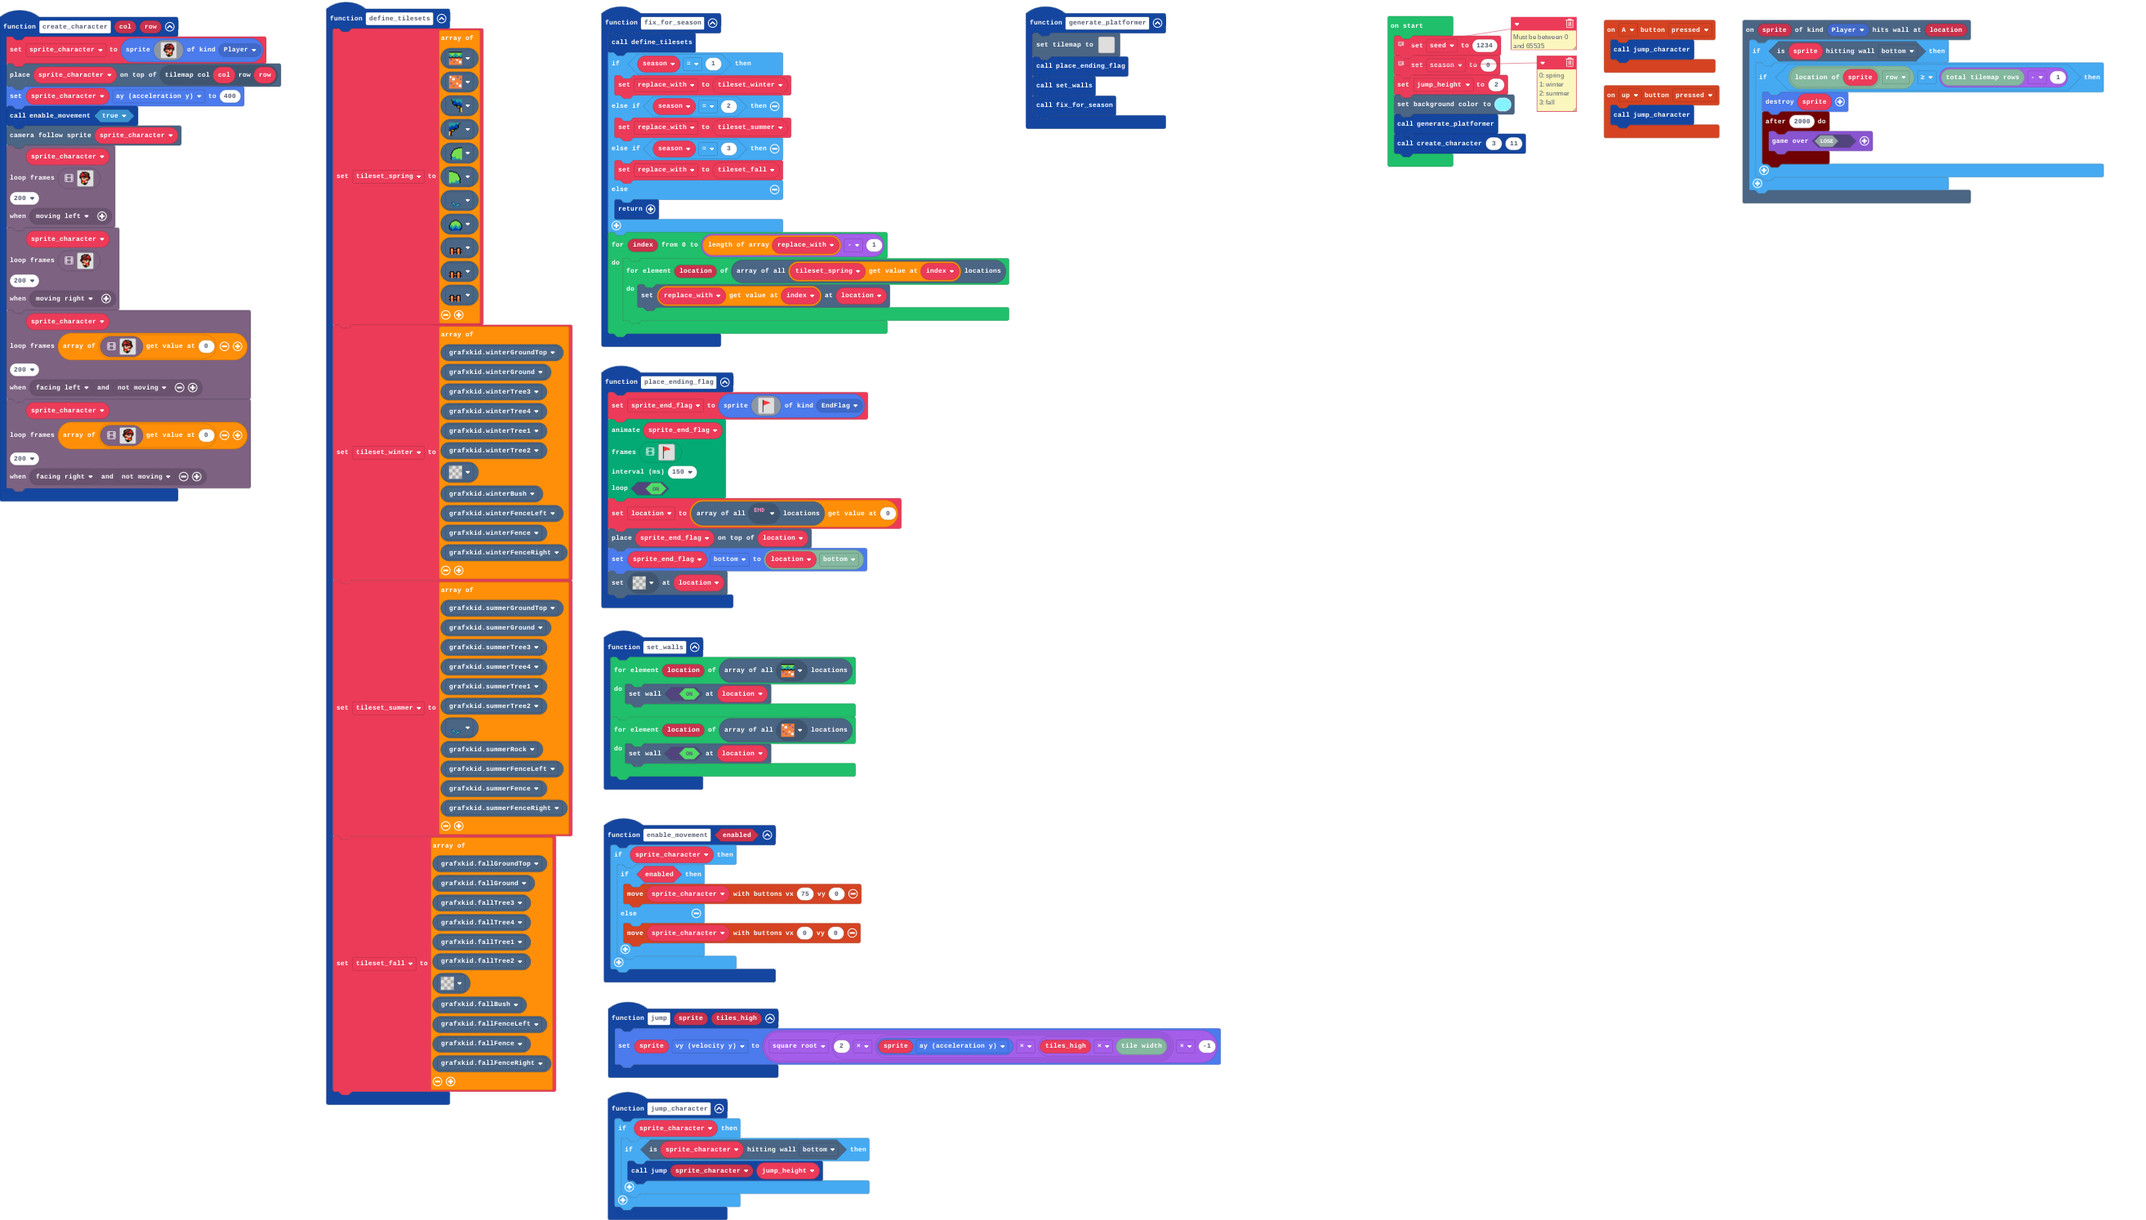
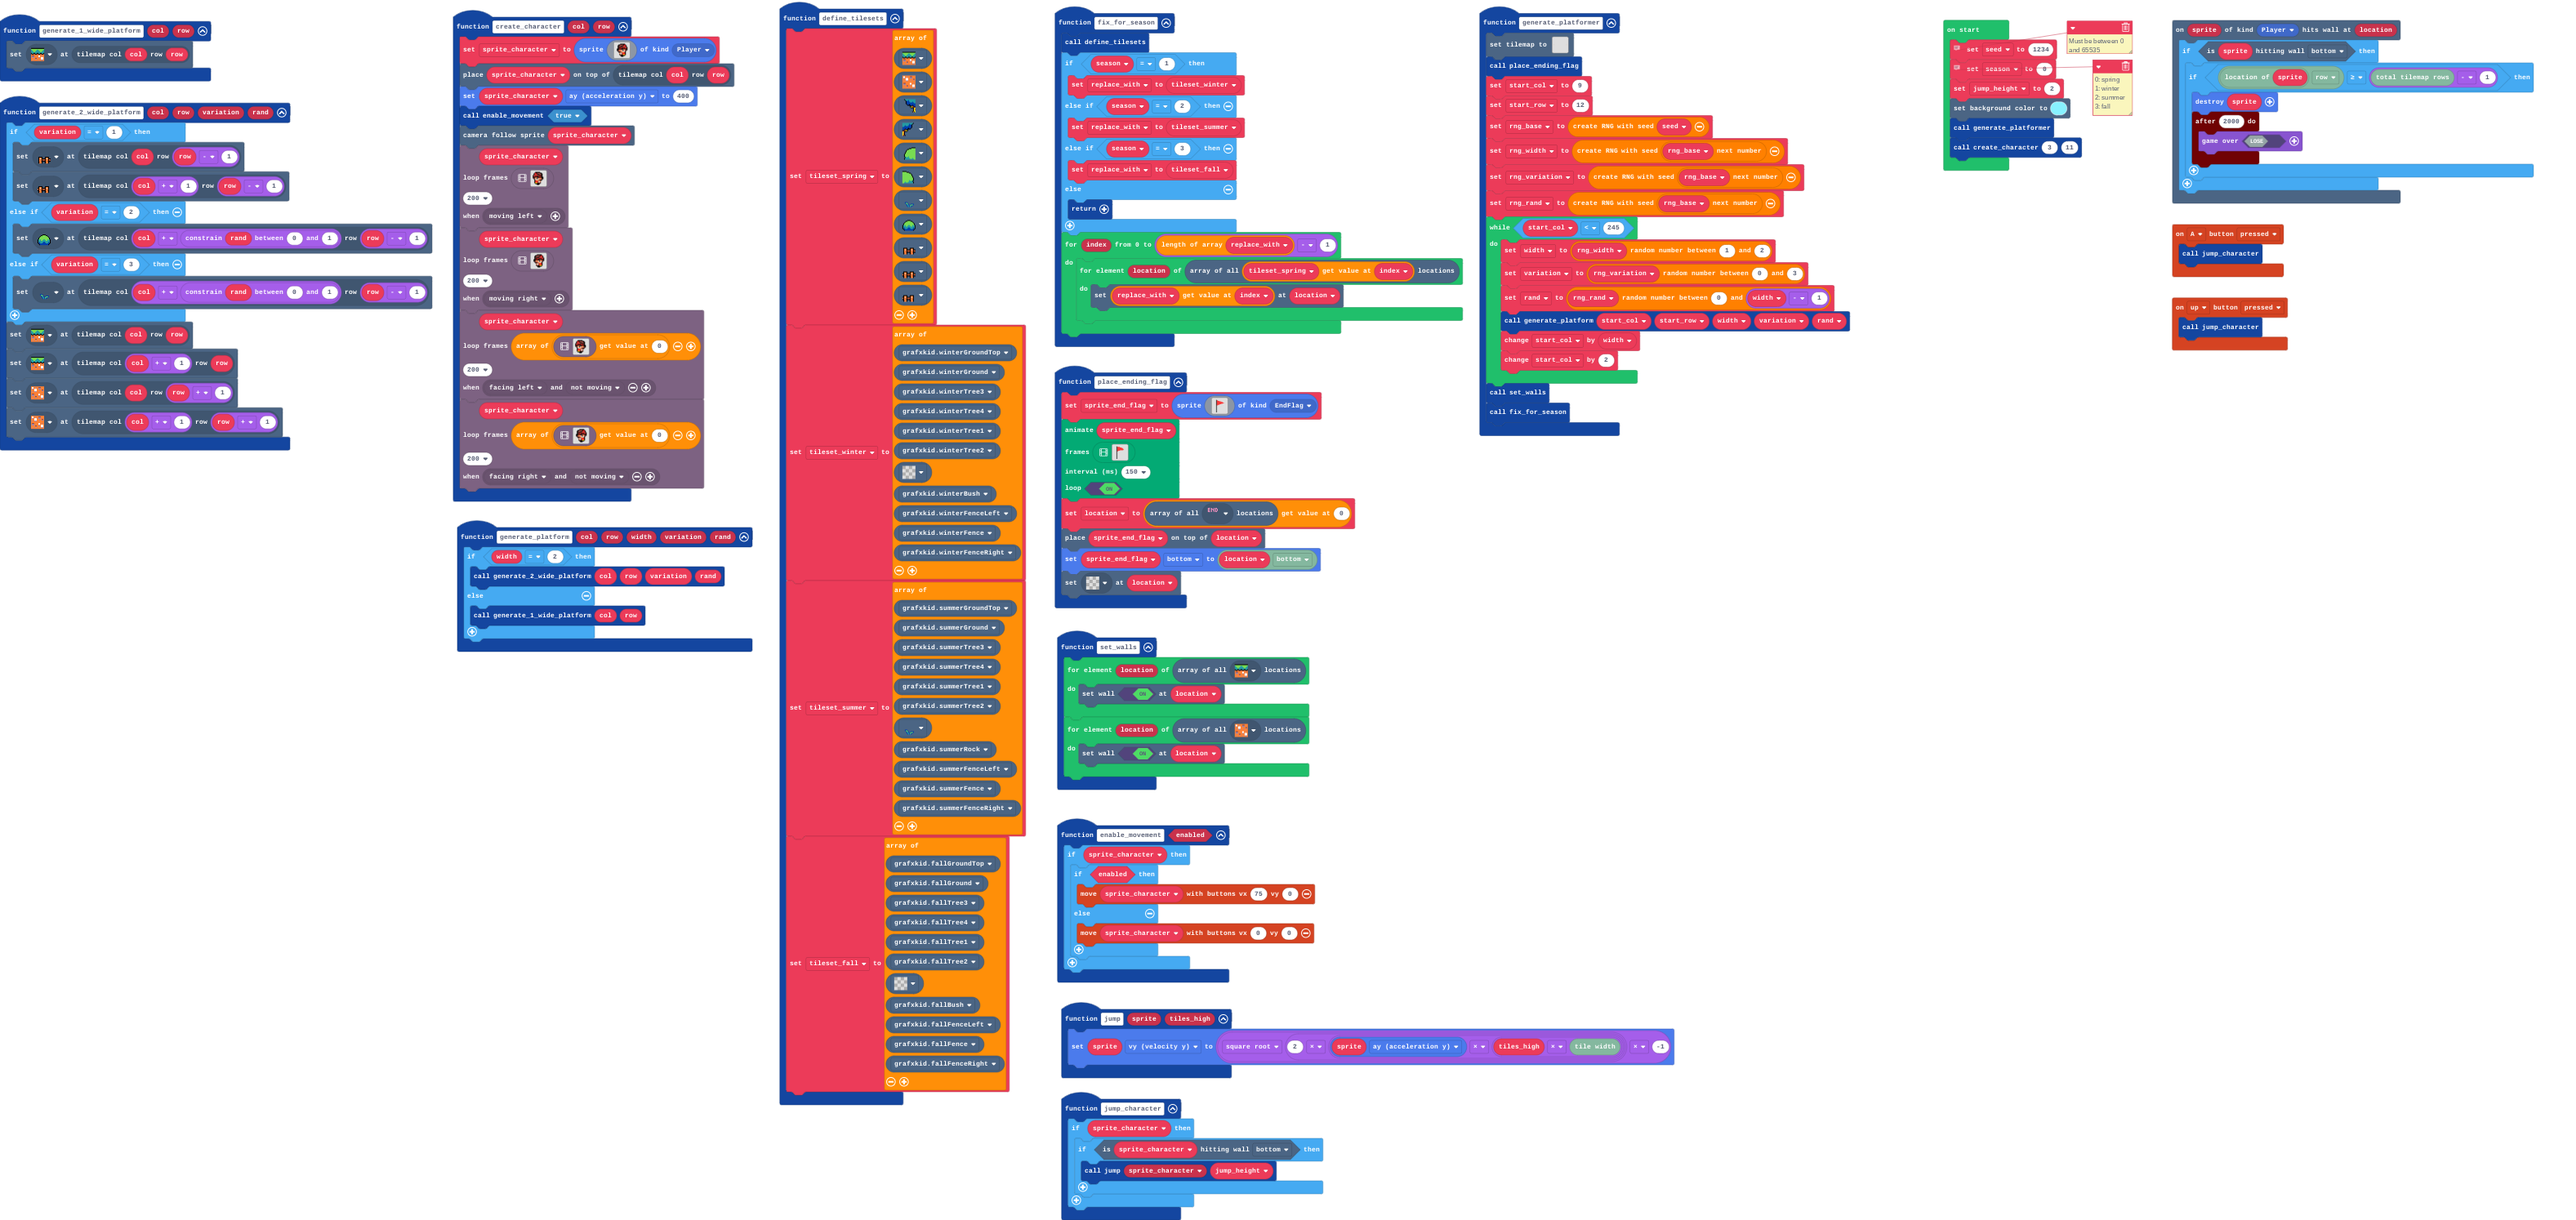
Can generate 1 or 2 width platforms

diff --git a/main.ts b/main.ts
@@ -72,6 +72,23 @@ function fix_for_season () {
         }
     }
 }
+function generate_1_wide_platform (col: number, row: number) {
+    tiles.setTileAt(tiles.getTileLocation(col, row), grafxkid.springGroundTop)
+}
+function generate_2_wide_platform (col: number, row: number, variation: number, rand: number) {
+    if (variation == 1) {
+        tiles.setTileAt(tiles.getTileLocation(col, row - 1), grafxkid.fenceLeft)
+        tiles.setTileAt(tiles.getTileLocation(col + 1, row - 1), grafxkid.fenceRight)
+    } else if (variation == 2) {
+        tiles.setTileAt(tiles.getTileLocation(col + Math.constrain(rand, 0, 1), row - 1), grafxkid.springBush)
+    } else if (variation == 3) {
+        tiles.setTileAt(tiles.getTileLocation(col + Math.constrain(rand, 0, 1), row - 1), grafxkid.springGrass)
+    }
+    tiles.setTileAt(tiles.getTileLocation(col, row), grafxkid.springGroundTop)
+    tiles.setTileAt(tiles.getTileLocation(col + 1, row), grafxkid.springGroundTop)
+    tiles.setTileAt(tiles.getTileLocation(col, row + 1), grafxkid.springGround)
+    tiles.setTileAt(tiles.getTileLocation(col + 1, row + 1), grafxkid.springGround)
+}
 function enable_movement (enabled: boolean) {
     if (sprite_character) {
         if (enabled) {
@@ -89,12 +106,33 @@ function set_walls () {
         tiles.setWallAt(location, true)
     }
 }
+function generate_platform (col: number, row: number, width: number, variation: number, rand: number) {
+    if (width == 2) {
+        generate_2_wide_platform(col, row, variation, rand)
+    } else {
+        generate_1_wide_platform(col, row)
+    }
+}
 function jump (sprite: Sprite, tiles_high: number) {
     sprite.vy = Math.sqrt(2 * (sprite.ay * (tiles_high * tiles.tileWidth()))) * -1
 }
 function generate_platformer () {
     tiles.setTilemap(tilemap`level_template`)
     place_ending_flag()
+    start_col = 9
+    start_row = 12
+    rng_base = Random.createRNG(seed)
+    rng_width = Random.createRNG(rng_base.nextNumber())
+    rng_variation = Random.createRNG(rng_base.nextNumber())
+    rng_rand = Random.createRNG(rng_base.nextNumber())
+    while (start_col < 245) {
+        width = rng_width.randomRange(1, 2)
+        variation = rng_variation.randomRange(0, 3)
+        rand = rng_rand.randomRange(0, width - 1)
+        generate_platform(start_col, start_row, width, variation, rand)
+        start_col += width
+        start_col += 2
+    }
     set_walls()
     fix_for_season()
 }
@@ -167,6 +205,15 @@ function define_tilesets () {
 }
 let location: tiles.Location = null
 let sprite_end_flag: Sprite = null
+let rand = 0
+let variation = 0
+let width = 0
+let rng_rand: FastRandomBlocks = null
+let rng_variation: FastRandomBlocks = null
+let rng_width: FastRandomBlocks = null
+let rng_base: FastRandomBlocks = null
+let start_row = 0
+let start_col = 0
 let tileset_spring: Image[] = []
 let tileset_fall: Image[] = []
 let tileset_summer: Image[] = []
@@ -175,8 +222,9 @@ let replace_with: Image[] = []
 let sprite_character: Sprite = null
 let jump_height = 0
 let season = 0
+let seed = 0
 // Must be between 0 and 65535
-let seed = 1234
+seed = 1234
 // 0: spring
 // 1: winter
 // 2: summer
